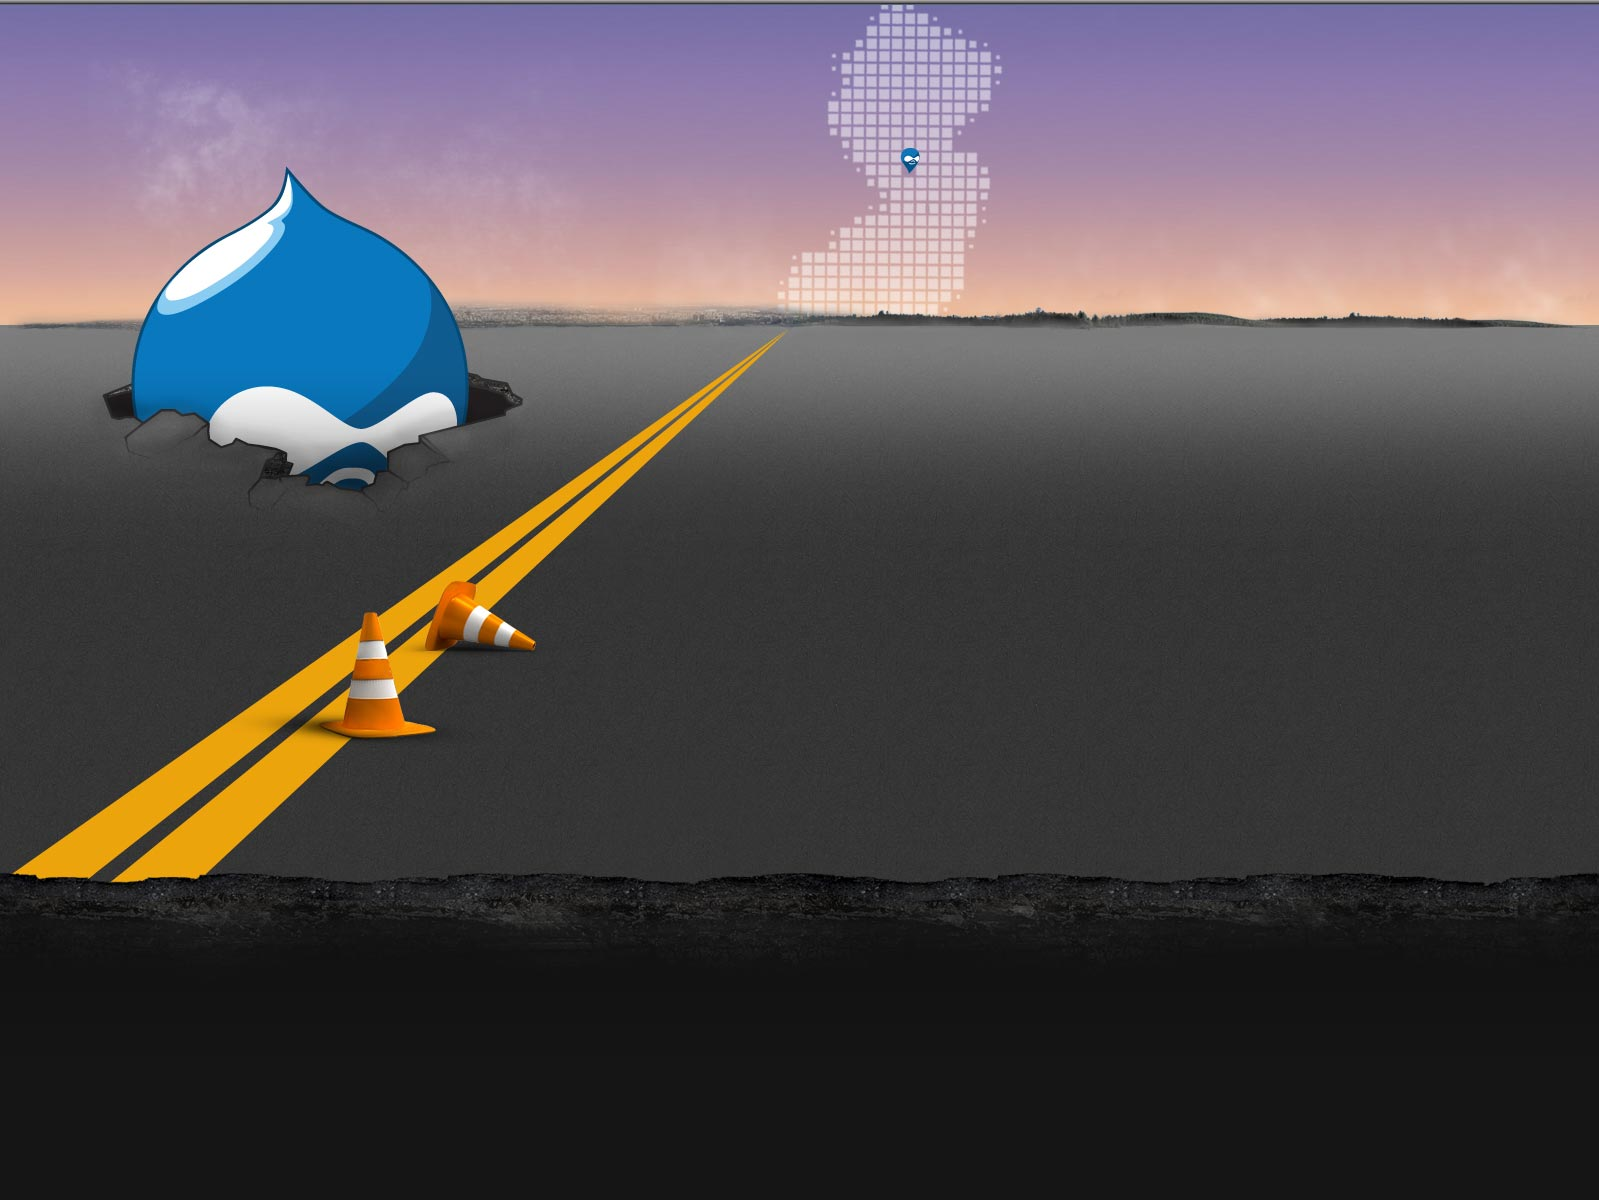
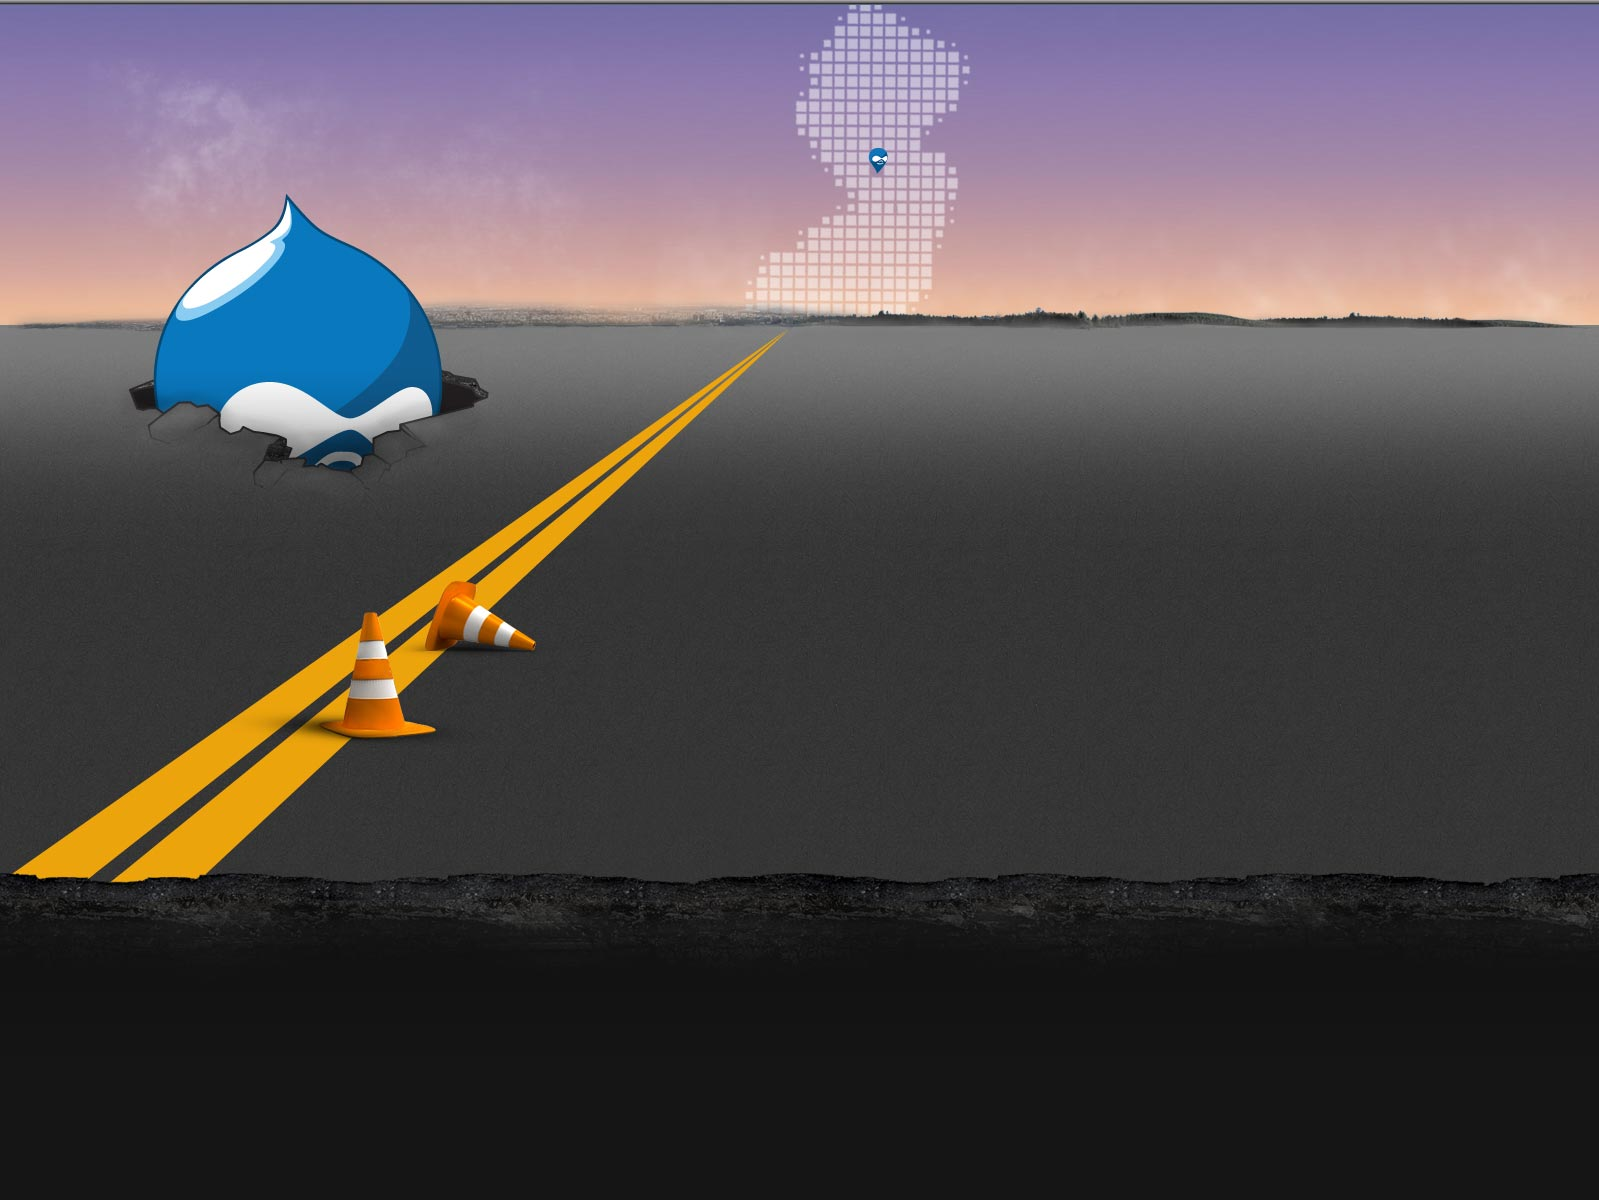
bg tweak to allow 30px wider content on front

Changed region(s): [[0.0613, 0.1542, 0.3371, 0.4317], [0.4597, 0.0, 0.6435, 0.2775], [0.9806, 0.74, 1.0, 0.7708]]

diff --git a/docroot/sites/all/themes/drupalcampnj/css/drupalcampnj-alpha-default.css b/docroot/sites/all/themes/drupalcampnj/css/drupalcampnj-alpha-default.css
@@ -110,7 +110,7 @@ body.admin-menu {
 }
 
 .front .region-content-inner {
-  margin-left: 153px;
+  margin-left: 123px;
 }
 
 #region-content a {
